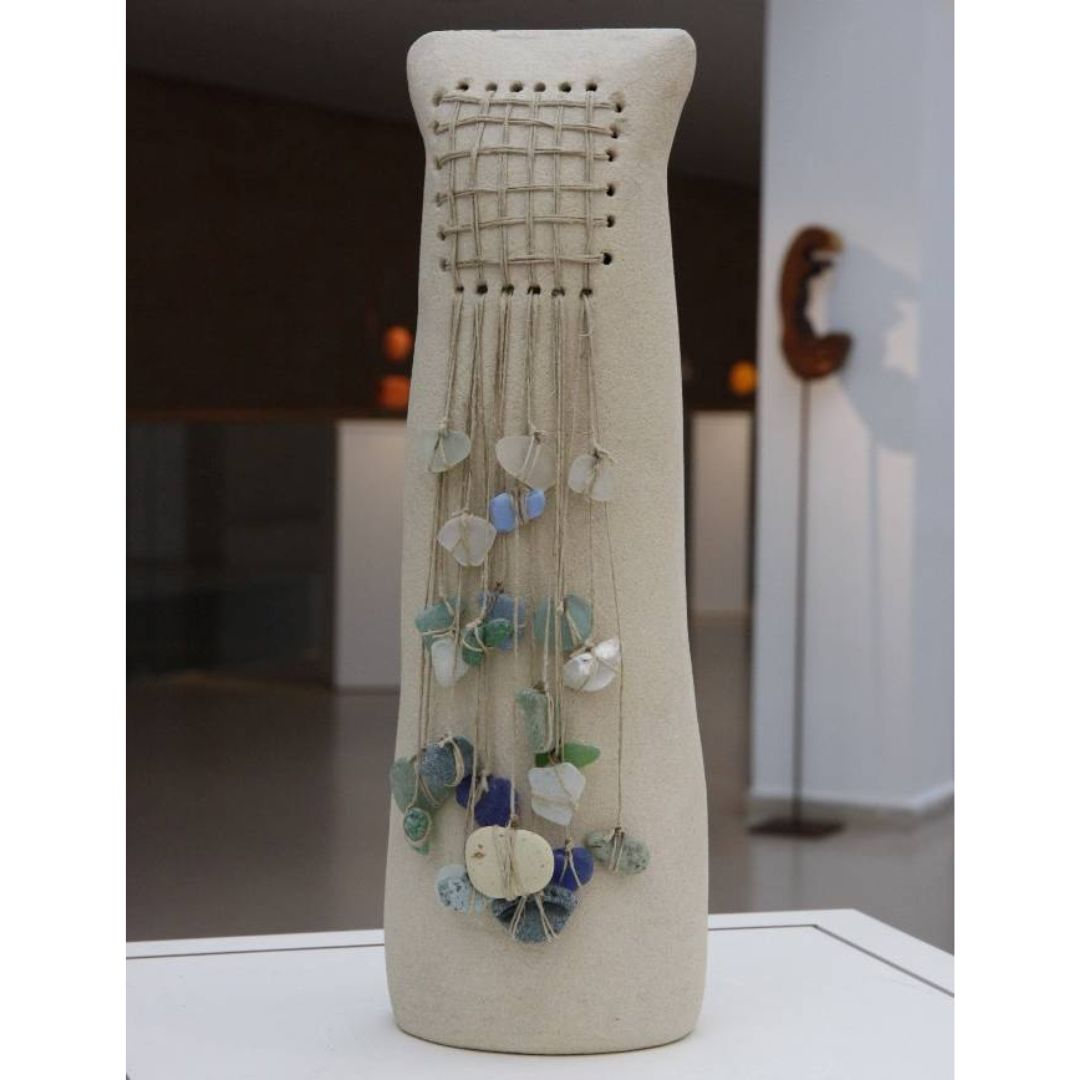
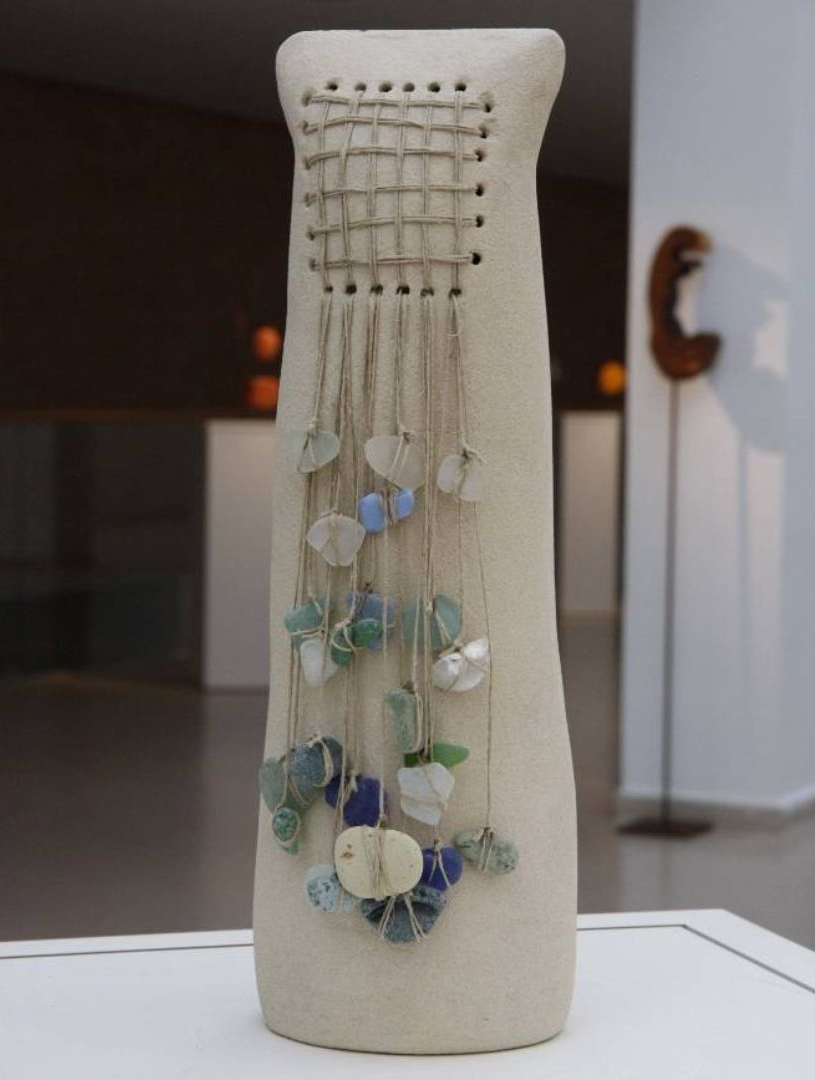
s

diff --git a/src/pages/artwork/Ceramics.tsx b/src/pages/artwork/Ceramics.tsx
@@ -24,7 +24,7 @@ const Ceramics = () => {
                   className="w-full h-full object-cover rounded-lg"
                 />
                 <img
-                  src="/kai08.jpg"
+                  src="/kai08.png"
                   alt="Naturaleza 2"
                   className="w-full h-full object-cover rounded-lg"
                 />
